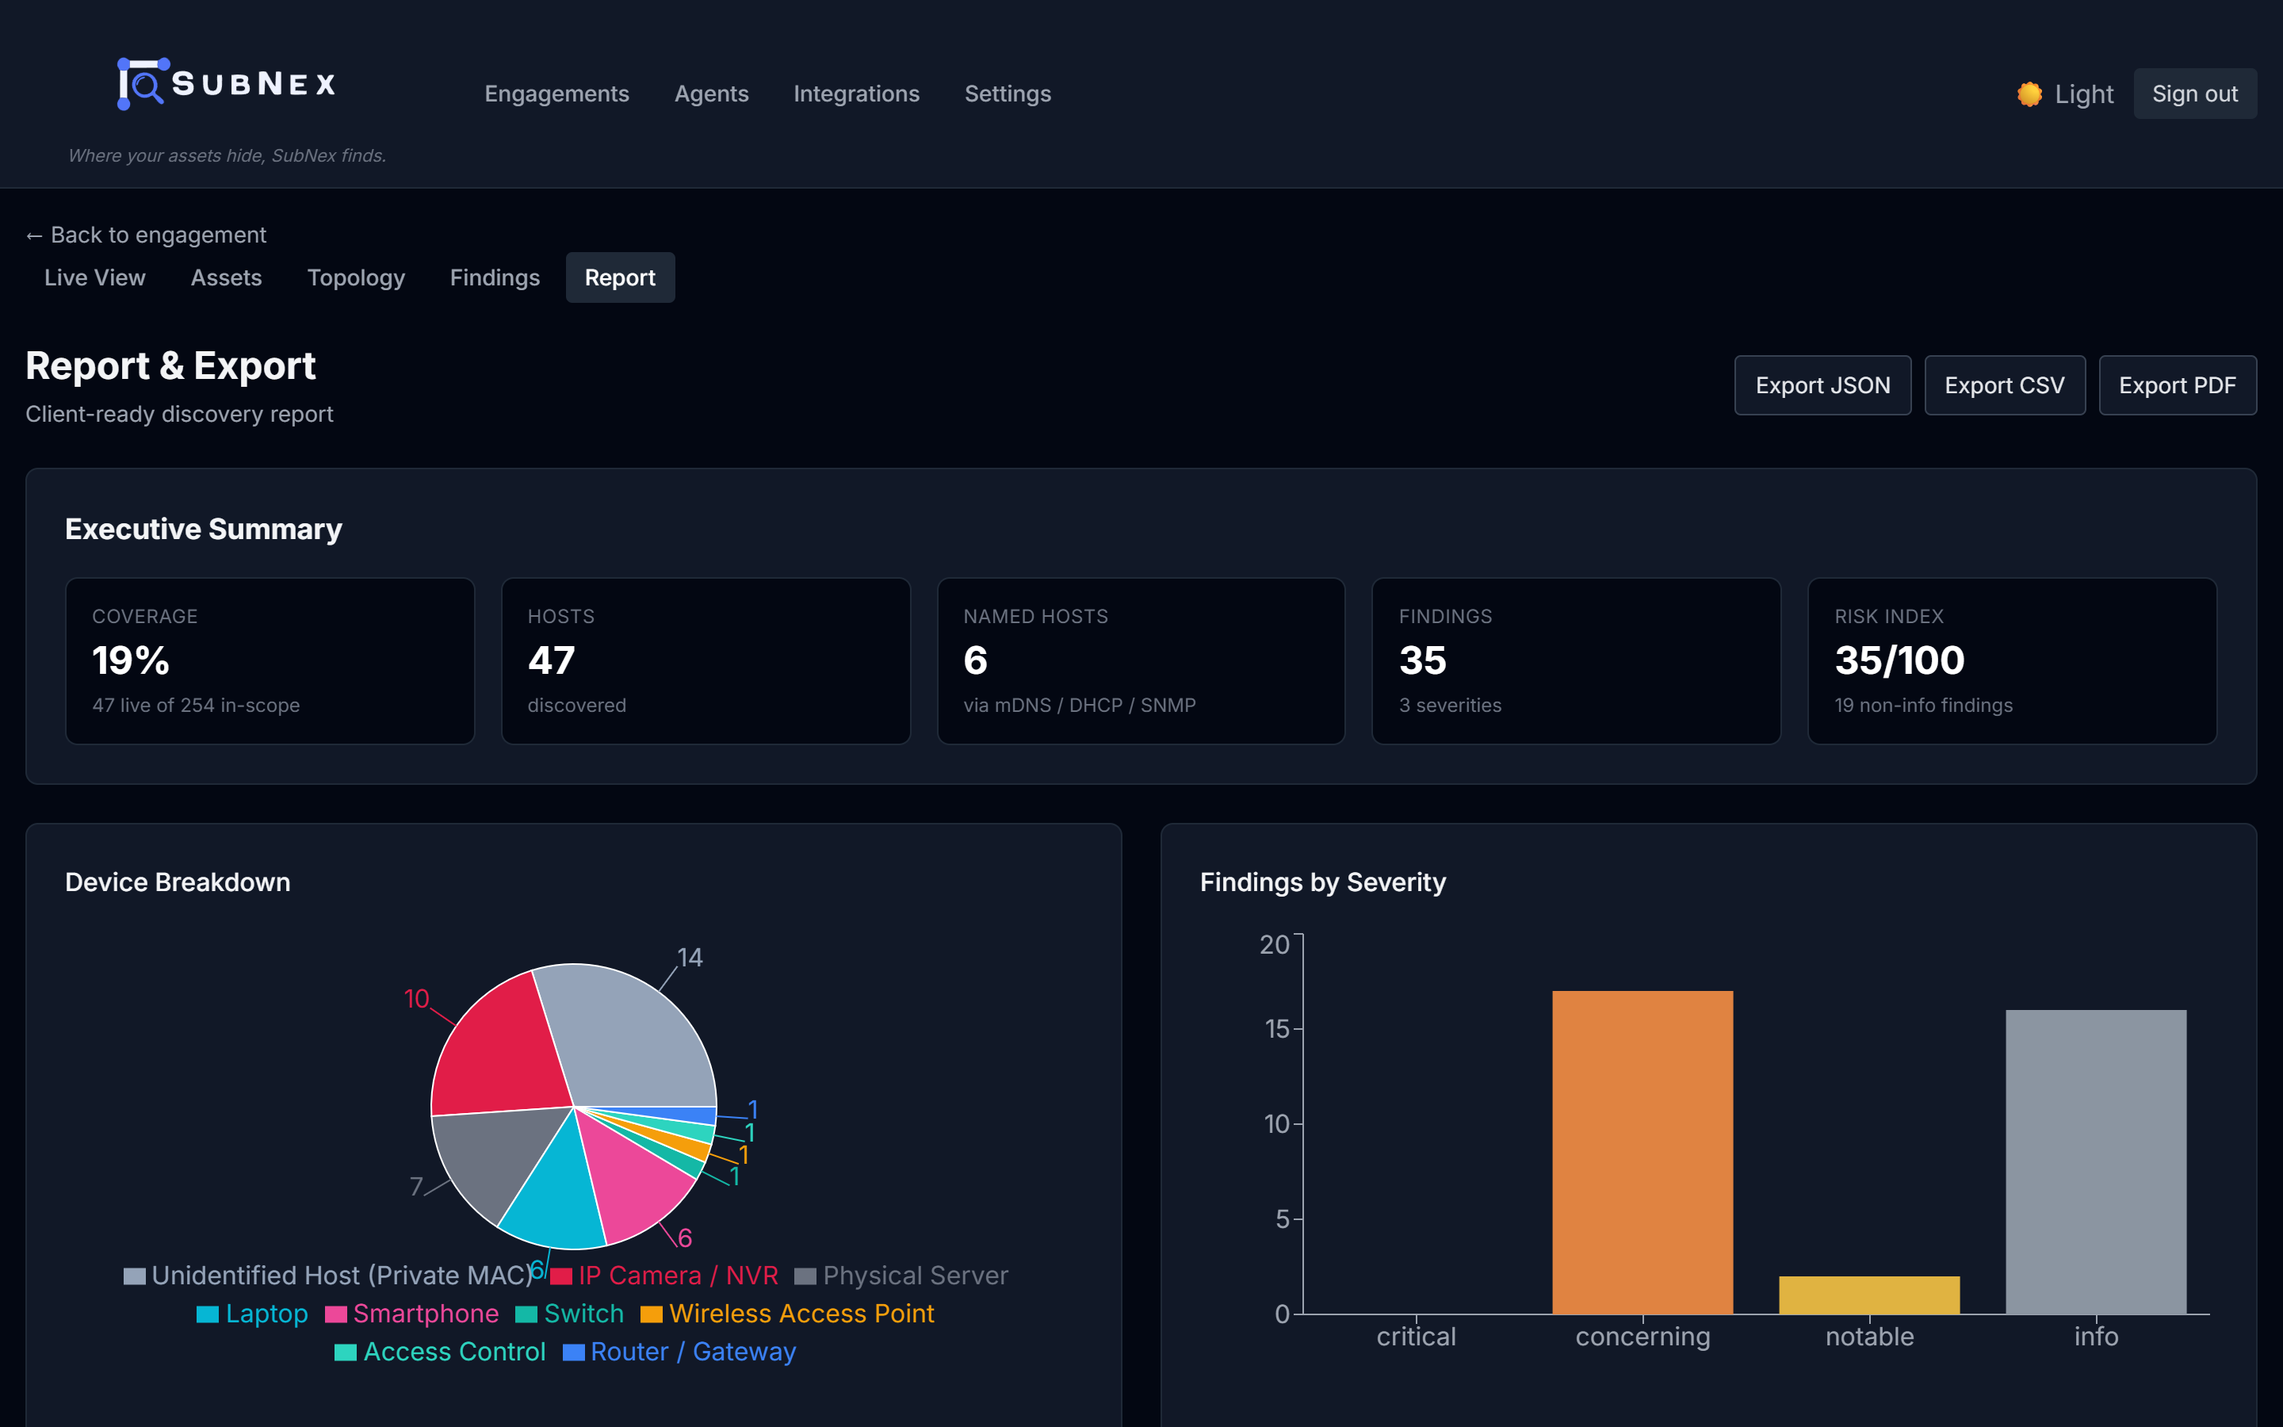
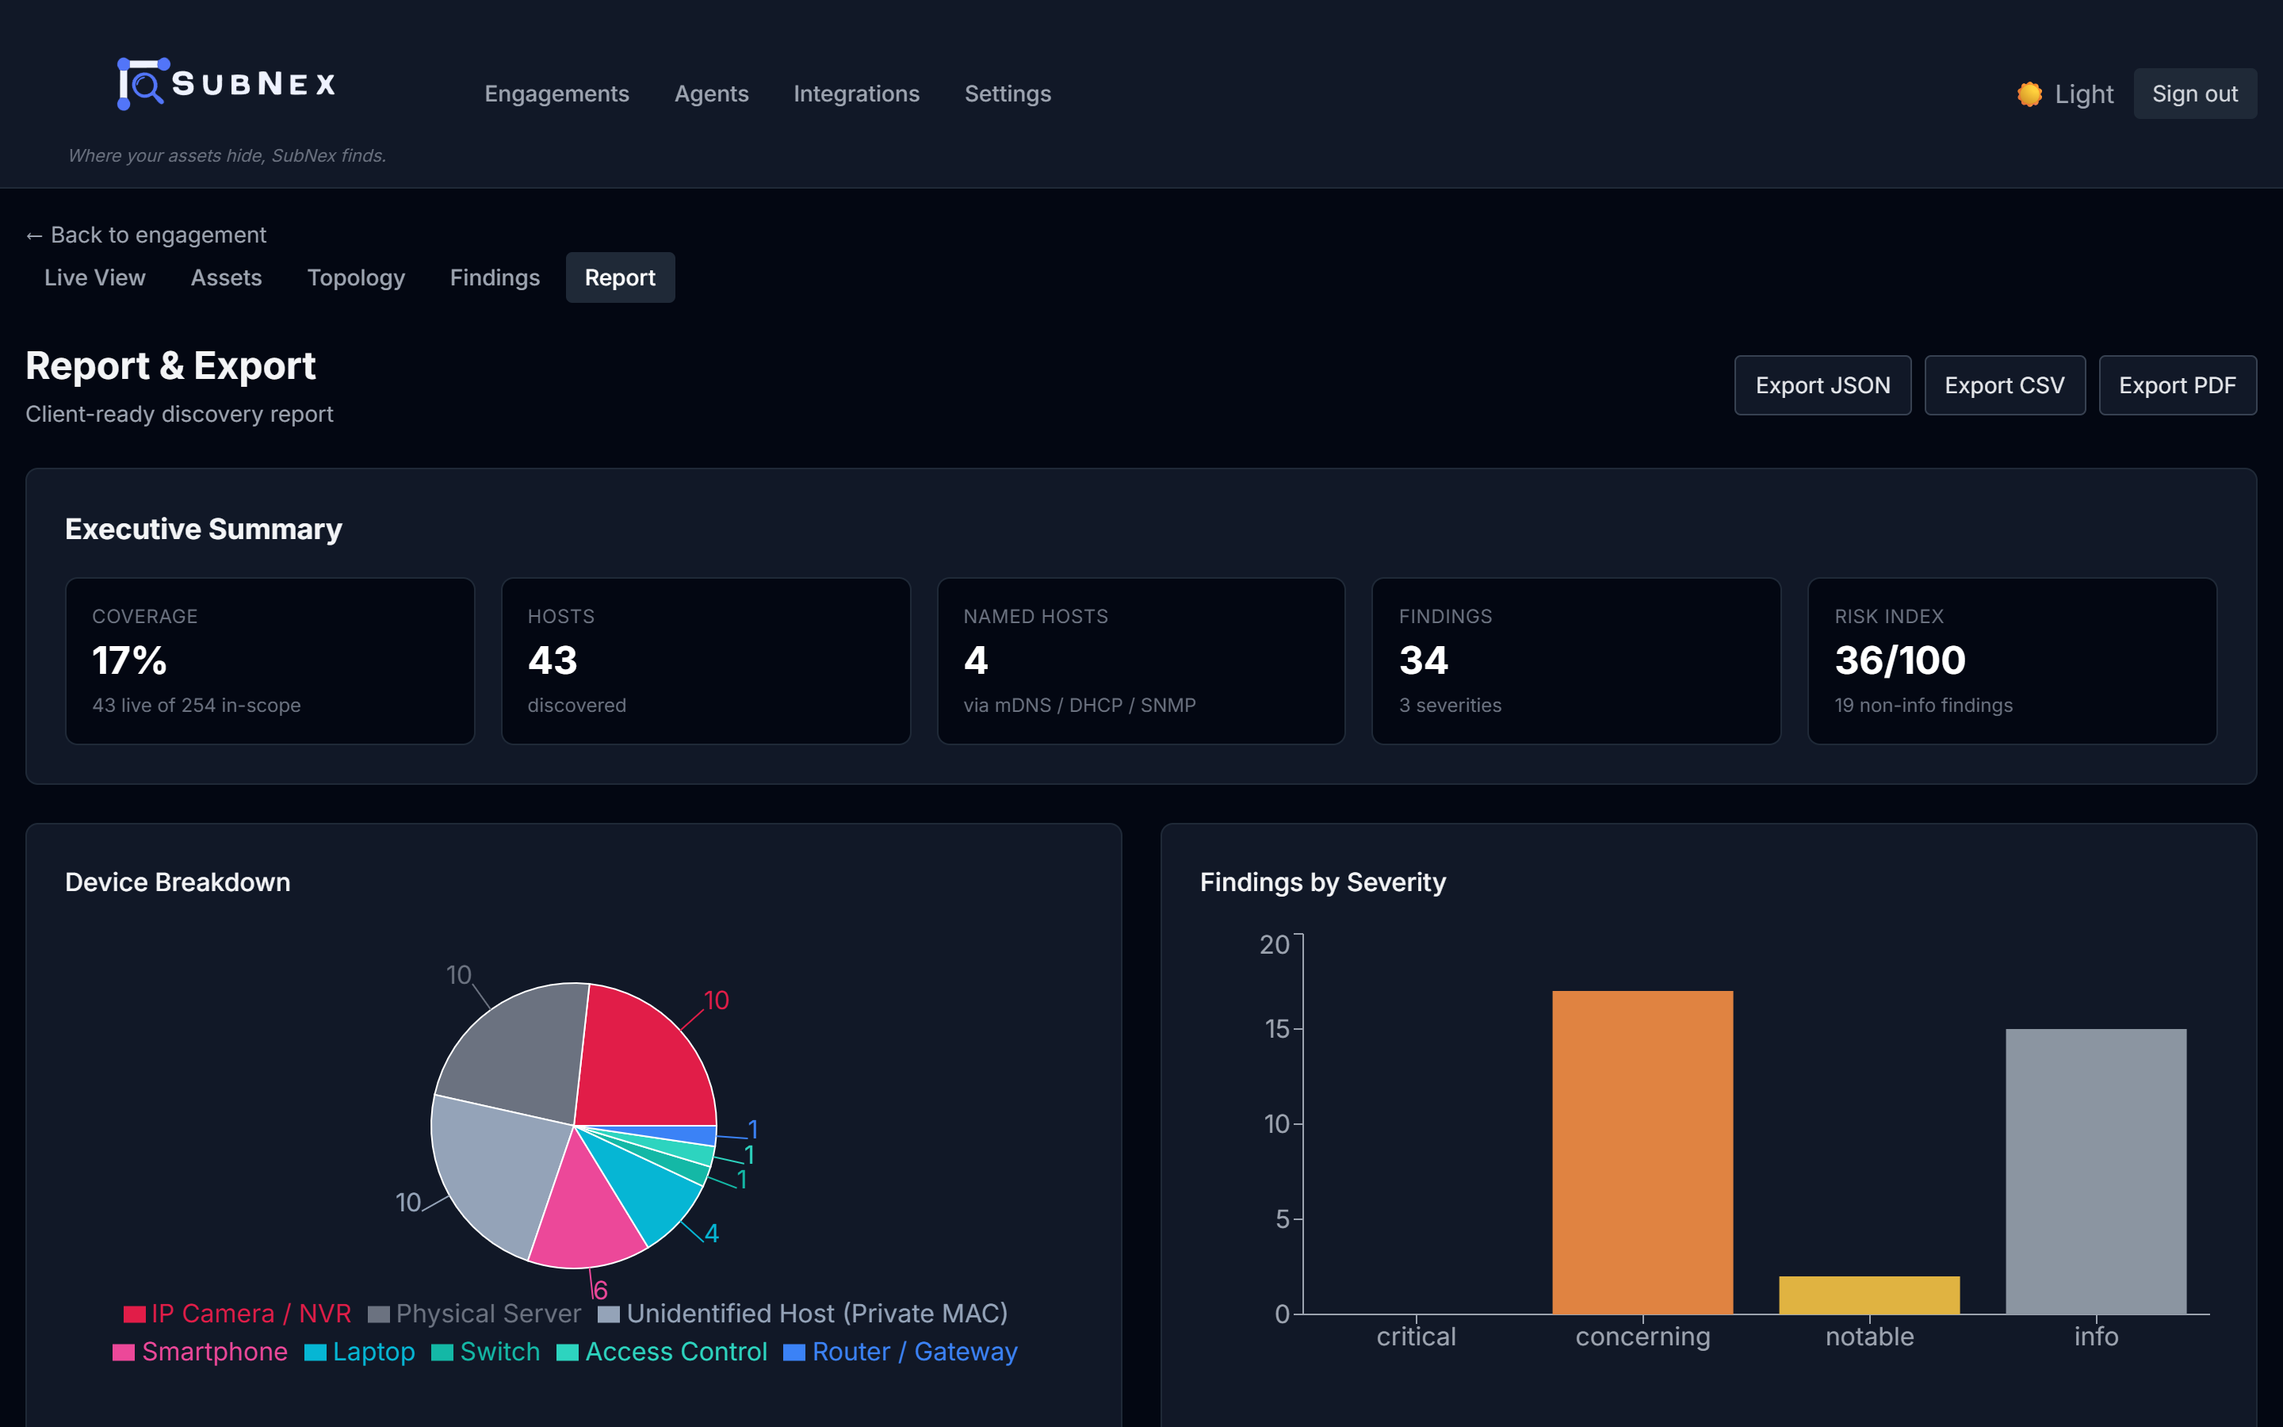
Refresh docs and add sample report

diff --git a/README.md b/README.md
@@ -81,6 +81,10 @@ SubNex is a network asset discovery platform for penetration testing engagements
     <td align="center"><img src="assets/screenshots/engagement-detail.png" alt="Engagement detail" width="100%"><br><sub>Engagement detail — start &amp; compare scans</sub></td>
     <td align="center"><img src="assets/screenshots/agents.png" alt="Scanner agents" width="100%"><br><sub>Scanner agents — LAN L2 workers</sub></td>
   </tr>
+  <tr>
+    <td align="center"><img src="assets/screenshots/report-pdf.png" alt="PDF client report" width="100%"><br><sub>PDF client report — WeasyPrint rendered</sub></td>
+    <td align="center" valign="middle"><a href="assets/screenshots/SubNex-scan-report.pdf"><b>Download the sample PDF report ›</b></a><br><sub>A real generated client report (↑)</sub></td>
+  </tr>
 </table>
 
 ---
@@ -99,8 +103,8 @@ The stack runs three services:
 
 | Service | Purpose | Local port |
 |---------|---------|-----------|
-| `postgres` | Database (schema auto-applied by migrations on backend start) | 5432 |
-| `redis` | Celery message broker + pause/stop state | 6380 |
+| `postgres` | Database (schema auto-applied by migrations on backend start); host access via `docker compose exec postgres psql` | 5432 |
+| `redis` | Celery message broker + pause/stop state (internal network only — not published to the host) | — |
 | `backend` | FastAPI REST + WebSocket API, Celery scan worker, and serves the built web UI | 8000 |
 
 The backend container runs all three roles via `app/run_server.py` (a small supervisor that runs uvicorn + the Celery worker and restarts them if they crash). The UI is a static build of `frontend/` mounted at `/app/static` — build it on the host with `npm run build` and the backend serves it on the same port (no separate server).
@@ -133,19 +137,21 @@ cd network_assets_discovery
 ```
 > Note: the repo/clone directory will still be named `network_assets_discovery` until you rename it on GitHub; the product itself is **SubNex**.
 
-### 3. (Optional) Configure secrets
+### 3. Configure secrets (required)
 
-Defaults work out of the box for local use. To override the Postgres password or JWT secret, copy the template and edit it (the file is gitignored and **never** committed):
+`docker-compose.yml` deliberately has **no placeholder secrets** — the stack refuses to start (`${VAR:?...}` fail-fast) if `POSTGRES_PASSWORD` / `JWT_SECRET` aren't set. Copy the template and fill it in:
 
 ```bash
 # Windows:  Copy-Item .env.example .env
 cp .env.example .env
 ```
 
+The file is gitignored and **never** committed.
+
 | Variable | Default | Purpose |
 |---|---|---|
-| `POSTGRES_USER` / `POSTGRES_PASSWORD` / `POSTGRES_DB` | `pentest` / `secret` / `subnex` | Postgres access (used to build `DATABASE_URL`) |
-| `JWT_SECRET` | `change-me-in-production` | Auth token signing key — change for anything beyond local dev |
+| `POSTGRES_USER` / `POSTGRES_PASSWORD` / `POSTGRES_DB` | `pentest` / *(required)* / `subnex` | Postgres access (used to build `DATABASE_URL`) |
+| `JWT_SECRET` | *(required, ≥ 16 chars)* | Auth token signing key |
 | `JWT_ALGORITHM` / `JWT_EXPIRY_MINUTES` | `HS256` / `60` | Token settings |
 
 ### 4. Start everything (Windows, one command)
@@ -154,7 +160,7 @@ cp .env.example .env
 powershell -ExecutionPolicy Bypass -File start-all.ps1
 ```
 
-This builds the UI the first time (`npm install` + `npm run build`), starts the Compose stack, waits for the backend health check, then starts the LAN scanner agent in the background.
+This builds the UI the first time (`npm install` + `npm run build`), **starts Docker Desktop automatically if the engine isn't running yet** (then waits up to ~120 s for it), brings up the Compose stack, waits for the backend health check, then starts the LAN scanner agent in the background.
 
 ### 5. Manual start (any OS)
 
@@ -164,11 +170,11 @@ docker compose up -d --build                           # start the stack
 docker compose ps                                      # postgres+redis (healthy), backend (Up)
 ```
 
-Schema creation, migrations (001 → 009) and the demo user happen **automatically** at backend startup — no manual `psql`/`seed.py` steps.
+Schema creation, migrations (001 → 012) and the demo user happen **automatically** at backend startup — no manual `psql`/`seed.py` steps.
 
 ### 6. First login and first scan
 
-- Open <http://localhost:8000>, log in with `demo@pentest.local` / `password123`.
+- Open <http://localhost:8000> and log in with the bootstrap account `demo@pentest.local` / `password123`. The first login forces you to set your own password before the app unlocks.
 - **Engagements → New Engagement** → add your network to **Authorized scope** (e.g. `192.168.1.0/24`).
 - **Engagement Detail → Start Scan** → target an IP/CIDR inside that scope, pick a `profile`, and watch the live scan.
 - Results appear under **Inventory**, **Topology**, **Findings**; generate a client report under **Report/Export**.
@@ -198,10 +204,11 @@ powershell -ExecutionPolicy Bypass -File start-all.ps1
 
 This does, in order:
 
-1. Builds the web UI: `cd frontend && npm install && npm run build` (only the first time, or after UI changes)
-2. Starts the Docker Compose stack (`postgres`, `redis`, `backend` — the backend container runs the API, the Celery scan worker, and serves the built UI on the same port) — `docker compose up -d`
-3. Waits for the backend API to become ready (~up to 60 s, health-polled)
-4. Starts the LAN scanner agent as a background process
+1. Ensures the **Docker engine is running** — if it isn't, Docker Desktop is launched automatically and the script waits (up to ~120 s) for the engine to answer.
+2. Builds the web UI: `cd frontend && npm install && npm run build` (only the first time, or after UI changes)
+3. Starts the Docker Compose stack (`postgres`, `redis`, `backend` — the backend container runs the API, the Celery scan worker, and serves the built UI on the same port) — `docker compose up -d`
+4. Waits for the backend API to become ready (~up to 60 s, health-polled).
+5. Starts the LAN scanner agent as a background process (API key resolved from `SCANNER_AGENT_KEY`, then `SCANNER_AGENT_API_KEY`, then the local key file — never from the repo or a visible command line).
 
 Data is **preserved across restarts** (`docker compose down` is never called with `-v`). The script is **idempotent** — re-running it is safe.
 
@@ -228,7 +235,9 @@ The stack ships with a **demo admin user** that is created automatically on a fr
 | Field | Value |
 |-------|-------|
 | Email | `demo@pentest.local` |
-| Password | `password123` |
+| Password | `password123` (bootstrap only) |
+
+A password change is **enforced on the first login**: every authenticated API/WebSocket call is refused with `403 Password change required` (the frontend auto-redirects to the change-password screen) until you set a personal password. The bootstrap password above only works for that first login.
 
 The UI redirects to `/login` if you aren't authenticated.
 
@@ -295,8 +304,8 @@ The **scanner agent** is a small, self-contained CLI in `agent/` that you run **
 On the LAN machine (Windows/macOS/Linux with **nmap** installed; Windows needs **Npcap**):
 
 ```bash
-python agent/scanner_agent.py --server http://<SERVER_IP>:8000 --name my-lan \
-  --api-key <KEY> --subnets 192.168.1.0/24
+export SCANNER_AGENT_KEY="<KEY>"   # keeps the key out of argv / process listings
+python agent/scanner_agent.py --server http://<SERVER_IP>:8000 --name my-lan --subnets 192.168.1.0/24
 ```
 
 Or as a container on a Linux LAN host (host networking + raw sockets = real L2):
@@ -333,7 +342,7 @@ Windows). If it's missing, the agent logs once and continues active-only — it 
 always best-effort. Passive evidence is merged **fill-if-blank**: a stronger
 `nmap -O` / SNMP result always wins.
 
-**Verified behaviour** (end-to-end run against this LAN): an agent on the Windows host produced results the L3-only container never could — a real **OS** (`Microsoft Windows 11 23H2`) + 10 open ports (SMB 445, postgres, redis, etc.) on one target, and a real **MAC + vendor** (`6c:f1:7e` → Zhejiang Uniview) on an IP camera target.
+**Verified behaviour** (live run against `192.168.1.0/24`, shown in the screenshots above): an agent on the Windows LAN produced **43 live hosts** that the L3-only container could not characterize — real **MAC + vendor** bindings (Hikvision / Dahua / Uniview cameras, Xiaomi, Apple, Cisco, CyberTAN…), **hostnames** via mDNS/DHCP (e.g. the `DS-2CD1023G0E-20230404AAWRL…` camera names), exact **OS** fingerprints (Windows 11 24H2, macOS/iOS 16–17, Linux 4.15–5.19), **92 open ports** across 32 hosts, and **34 risk findings**. A device-class report of that scan lives in `assets/screenshots/SubNex-scan-report.pdf`.
 
 ---
 
@@ -480,7 +489,8 @@ Base URL: `http://localhost:8000` (Swagger at `/docs`). Endpoints marked 🔒 re
 
 | Method | Path | Description |
 |--------|------|-------------|
-| `POST` | `/api/auth/login` | Login → returns `access_token` + `role` (no token needed) |
+| `POST` | `/api/auth/login` | Login → returns `access_token` + `role` + `must_change_password` (no token needed) |
+| `POST` | `/api/auth/change-password` | Set a new password; clears `must_change_password` and **revokes every previously issued token** 🔒 |
 | `POST` | `/api/auth/refresh` | Refresh token flow (returns 501 by design) |
 
 ### Engagements
@@ -554,10 +564,10 @@ Base URL: `http://localhost:8000` (Swagger at `/docs`). Endpoints marked 🔒 re
 ### Example: start a scan (PowerShell)
 
 ```powershell
-# 1. Login
+# 1. Login (use the password you set after the enforced first-login change)
 $login = Invoke-RestMethod -Uri "http://localhost:8000/api/auth/login" `
   -Method Post -ContentType "application/json" `
-  -Body (@{ email="demo@pentest.local"; password="password123" } | ConvertTo-Json)
+  -Body (@{ email="demo@pentest.local"; password="<YOUR_PASSWORD>" } | ConvertTo-Json)
 $headers = @{ Authorization = "Bearer $($login.access_token)" }
 
 # 2. Start a scan on an engagement
@@ -580,7 +590,7 @@ Invoke-WebRequest -Uri "http://localhost:8000/api/scans/$($scan.id)/export?forma
 
 ## WebSocket live feed
 
-Connect to `ws://localhost:8000/ws/scans/{scan_id}` (swap `http` → `ws`) to receive live scan events:
+Connect to `ws://localhost:8000/ws/scans/{scan_id}` (swap `http` → `ws`) to receive live scan events. **Authentication is required:** pass your JWT as a `?token=<jwt>` query parameter or an `Authorization: Bearer` header. Connections without a valid token (or from an account that still owes its first-login password change) are rejected with `403` / WS `4401`:
 
 ```json
 {"type": "scan_started", "scan_id": "..."}
@@ -604,9 +614,16 @@ Every event also carries a `ts` (ISO-8601 server timestamp) applied at emission 
 
 ## Security of the tool itself
 
-- JWT expiry + role checks (only `admin` can delete engagements).
-- Passwords hashed with bcrypt.
-- HTTPS-only in any non-local deployment.
+- **Enforced first-login password change** — the seed account (and any account flagged `must_change_password`) is locked out of every API/WebSocket call (`403 Password change required`) until `POST /api/auth/change-password` is completed. The login page no longer advertises the bootstrap password.
+- **JWT is hard to steal and easy to revoke** — tokens carry no role claim (authorization is always read from the database), expiries are enforced, and a `jwt_version` is embedded in every token. Changing a password bumps the version, instantly invalidating *all* previously issued tokens, including ones captured before the change.
+- **Brute-force protection** — login is rate-limited (10 failures / 15 min / IP → `429`) and passwords are bcrypt-hashed with 13 rounds; weak new passwords (`password123`, `changeme`, < 10 chars, same-as-current) are rejected server-side.
+- **JWT expiry + role checks** — only `admin` can delete engagements; mutating scan/host/finding endpoints enforce engagement ownership for non-admin users.
+- **WebSocket auth** — the live scan feed verifies the JWT and the target scan on every connection.
+- **Injection-safe scanning** — port ranges are validated against a strict regex (`nmap` argv is never assembled from raw input) and agent-side target/profile values are sanity-checked before any `nmap` invocation.
+- **Webhook SSRF guard** — webhook URLs must be `http(s)` and resolve to public IPs; private/link-local/metadata endpoints are rejected (`422`), and deliveries sign their payloads with the configured HMAC secret.
+- **Client-side hygiene** — CORS is restricted to configured origins, text rendered into the topology SVG is escaped, and the frontend stores only the JWT (no session secrets in `localStorage`).
+- **Key secrecy** — agent API keys are passed via environment variable / one-shot display, never through `argv` or the repository; secrets are required (no placeholder fallback) in `docker-compose.yml` and gitignored in `.env`.
+- **HTTPS-only in any non-local deployment.**
 - `audit_log` retained for the life of the engagement — every scan action is recorded.
 - `archived` engagements can have raw scan data exported then purged.
 - Keep `.env` out of version control (already gitignored); rotate any agent API keys that ever leave a trusted machine.
@@ -679,7 +696,7 @@ Device type is inferred from MAC vendor and open ports. A host that didn't answe
 │   ├── scanner_agent.py            # distributable LAN L2 scanner (CLI)
 │   └── Dockerfile                  # containerized agent (Linux, host-net)
 ├── database/migrations/            # ordered .sql migrations (applied automatically)
-│   └── 001_init.sql                #   from 001 to 009 on backend startup
+│   └── 001_init.sql                #   from 001 to 012 on backend startup
 ├── backend/
 │   ├── Dockerfile
 │   ├── requirements.txt
@@ -707,6 +724,6 @@ Device type is inferred from MAC vendor and open ports. A host that didn't answe
         ├── hooks/useApi.ts         # TanStack Query hooks (+ agents)
         ├── lib/                    # api client, types (device taxonomy), graph analysis, theme
         ├── components/             # Layout, badges, ScanNav, TopologyMinimap, SeverityBadge
-        └── pages/                  # Login, Engagements, EngagementDetail, LiveScan,
+        └── pages/                  # Login, ChangePassword, Engagements, EngagementDetail, LiveScan,
                                     # AssetInventory, HostDrawer, Topology, Findings, Report, Agents
 ```
